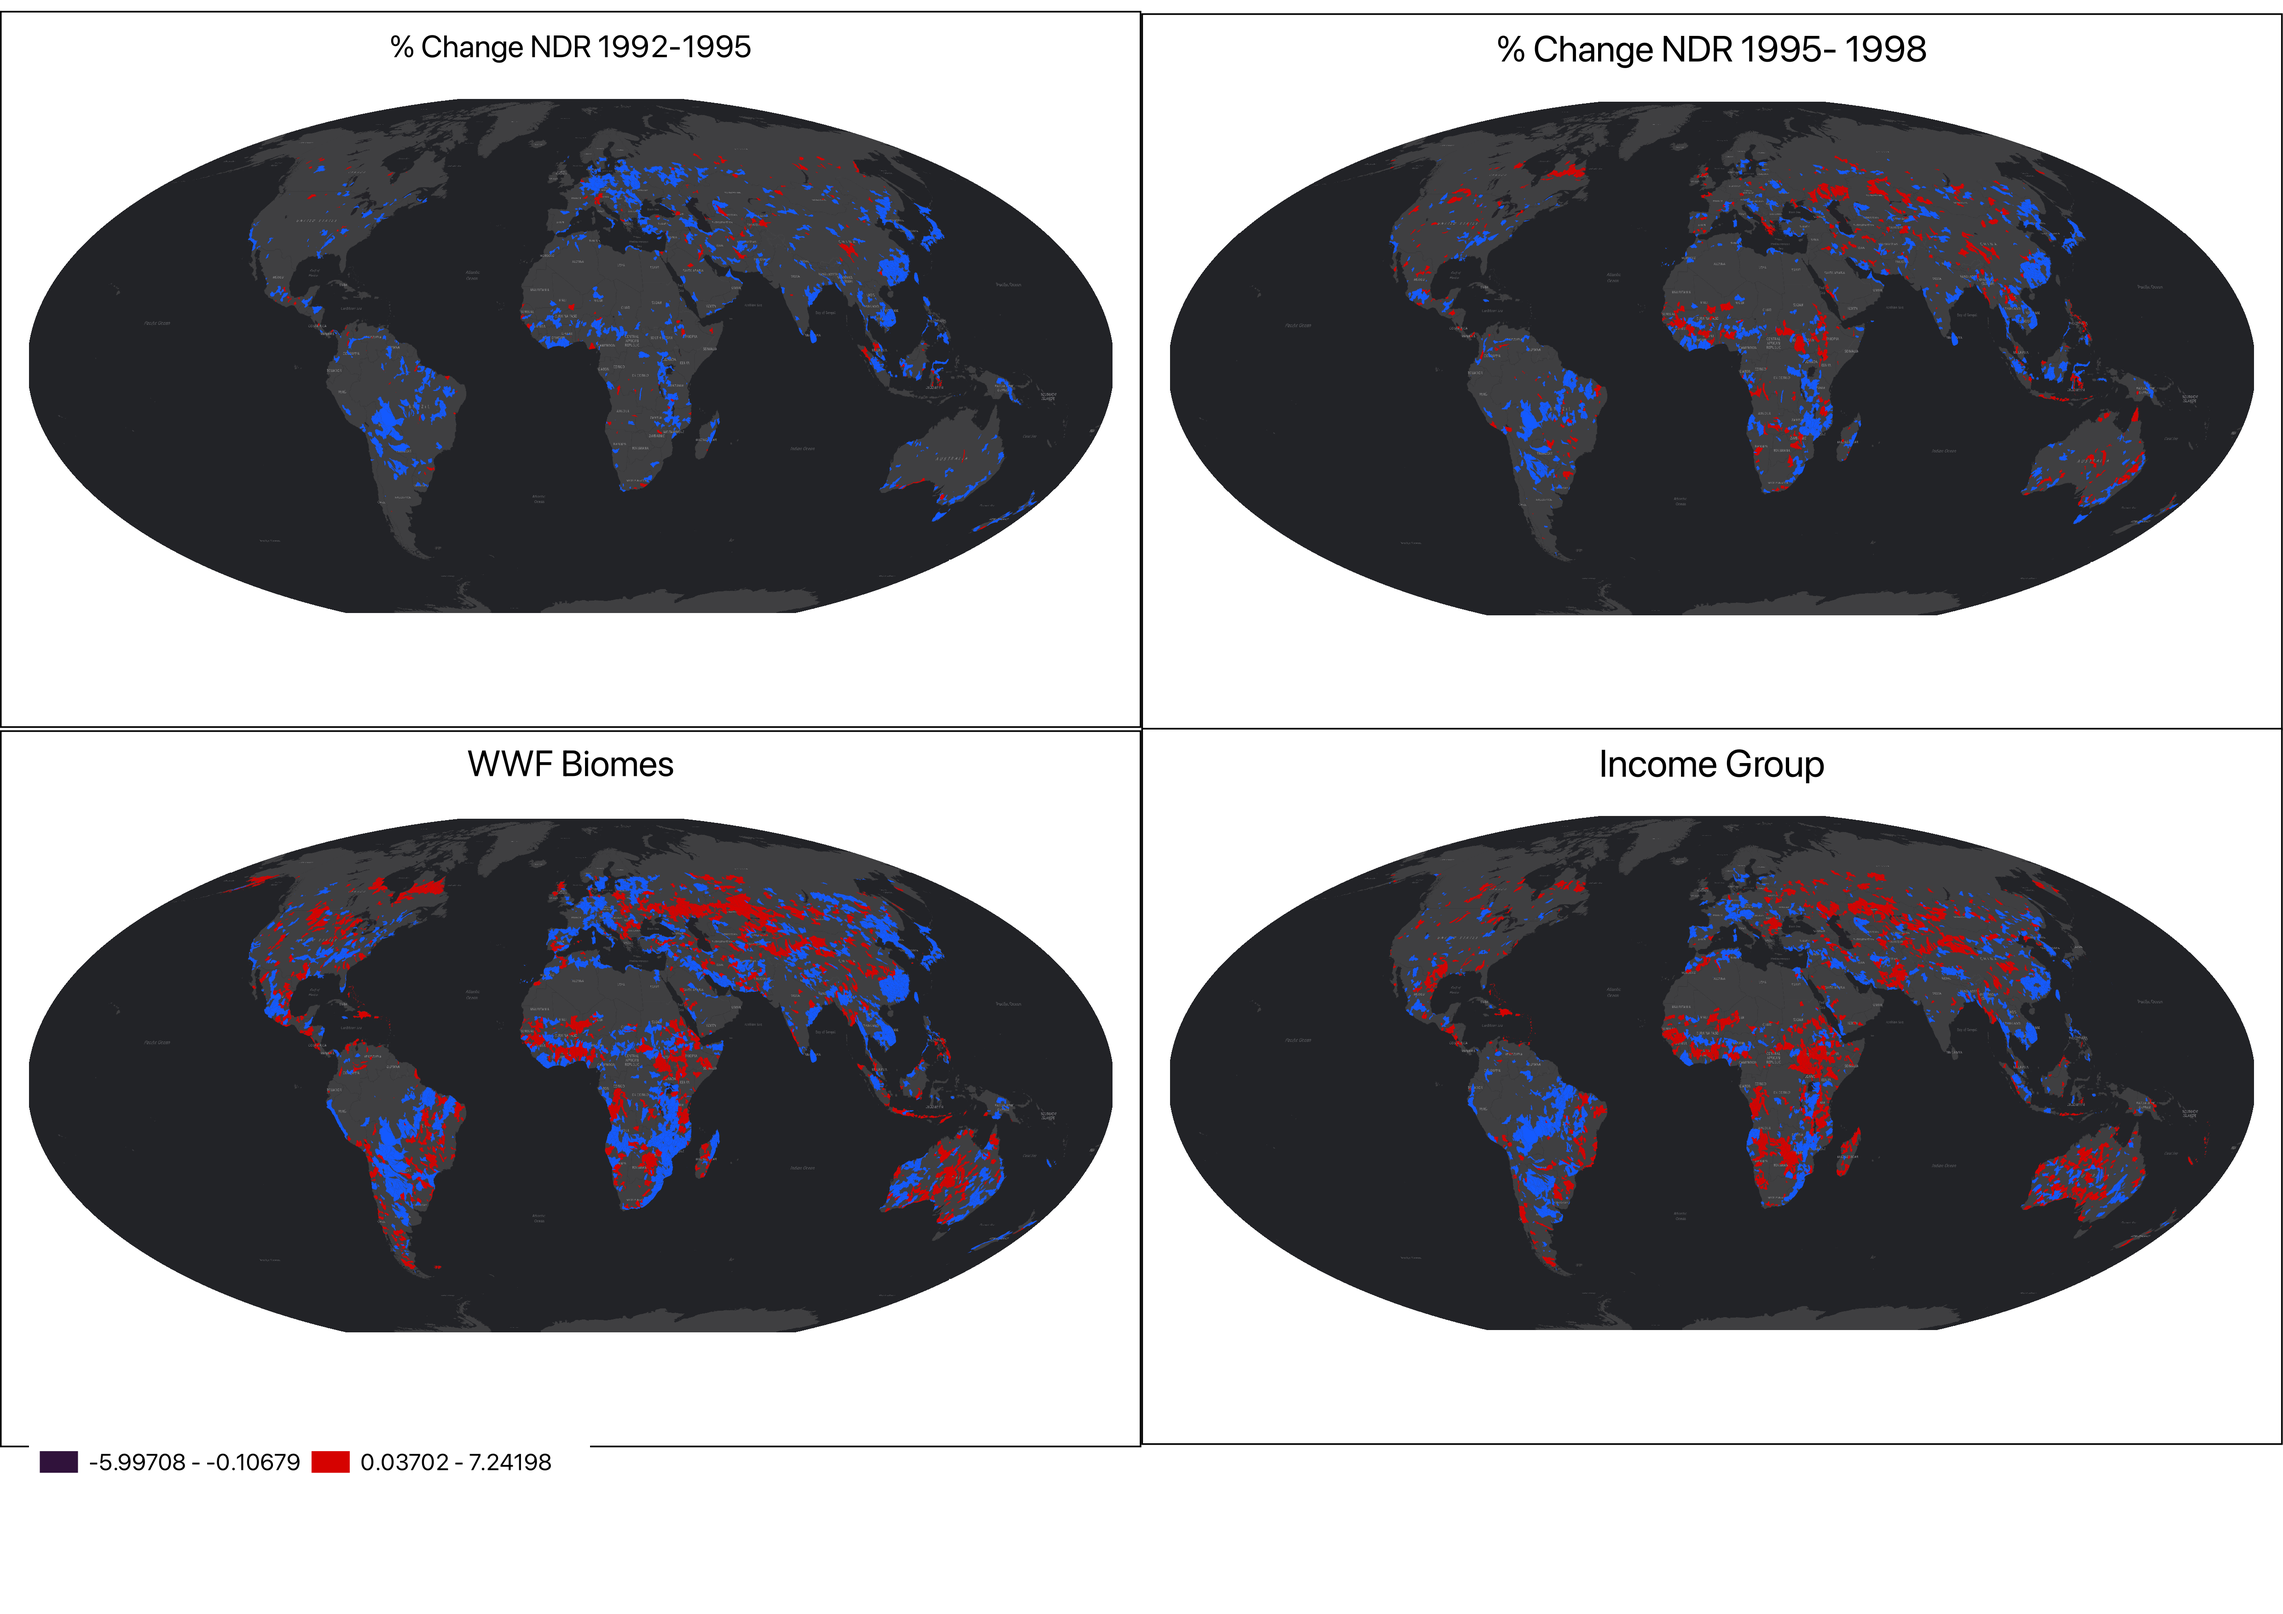
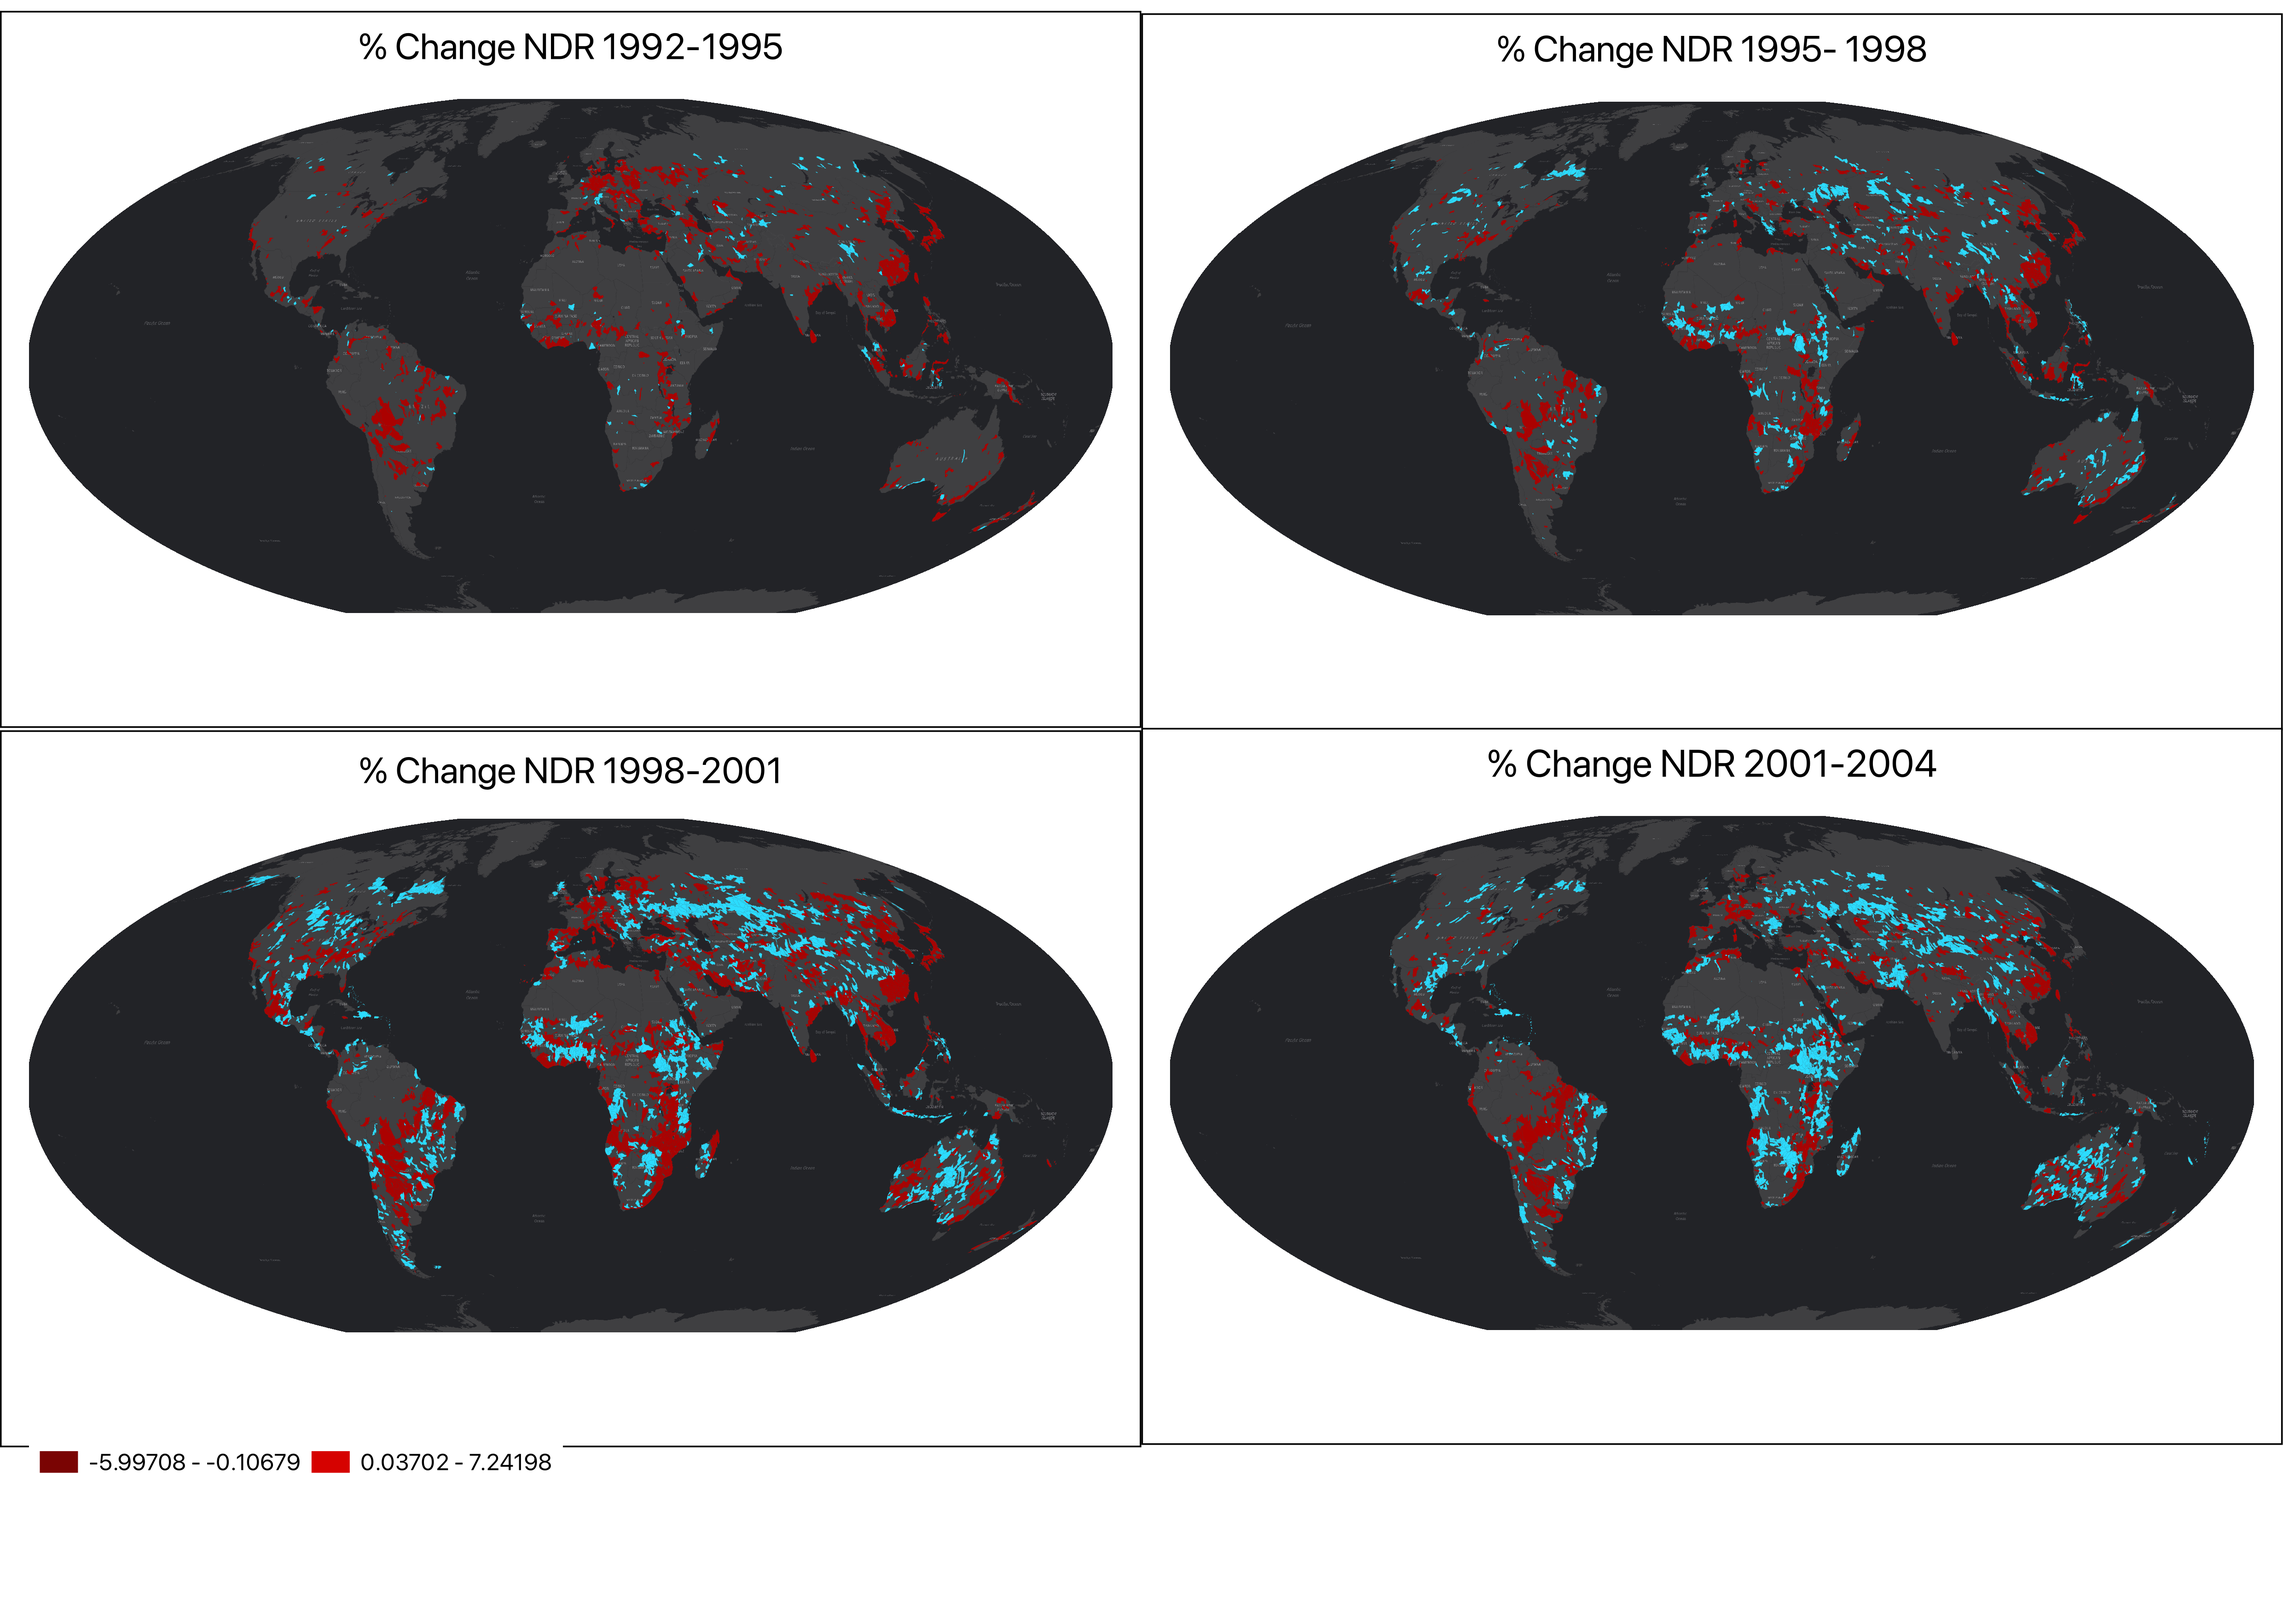
adjsuted RMD and documetnation. Should be ready to share

diff --git a/README.md b/README.md
@@ -9,8 +9,9 @@ zonal summary statistics from global ecosystem service (ES) raster
 datasets and track changes in ES provision over time while linking these
 changes to meaningful spatial units.
 
-The entire process is built around the `exactextractr` package in R,
-which offers efficient and precise zonal statistics for raster data
+The entire process is built around the
+[`exactextractr`](https://github.com/isciences/exactextractr) package in
+‘R’, which offers efficient and precise zonal statistics for raster data
 using polygon geometries. This workflow builds upon this functionality
 and introduces standardized methods to automate extraction, attach
 results as attributes, and visualize patterns across time and space.
@@ -34,14 +35,15 @@ considered: **continents, subregions, countries, biomes, watersheds**.
 Polygon files are stored in the vector/ directory in .gpkg format.
 Multiple levels of aggregation are supported: - Countries and
 territories - Continents - World Bank regions - Income groups - WWF
-Biomes - Hydrosheds Level 6 and 7 watersheds Dissolved polygon layers
-are generated externally (e.g., in QGIS or ArcGIS) to ensure topology
-and attribute consistency.
+Biomes - Hydrosheds Level 6 and 7 watersheds.
+
+Dissolved polygon layers are generated externally (e.g., in QGIS or
+ArcGIS) to ensure topology and attribute consistency.
 
 ## 2. Load Raster Data
 
-Raster inputs are located in input_ES/. They represent global ES values
-modeled with InVEST, covering two key years (1992 and 2020), plus
+Raster inputs are located in ‘input_ES/’. They represent global ES
+values modeled with InVEST, covering two key years (1992 and 2020), plus
 multi-year outputs (e.g., 1992–2004 for NDR). Each raster is labeled
 with: Ecosystem service name Year of modeling Units (e.g., kg/ha, people
 fed)
@@ -73,10 +75,12 @@ fed)
     lands**](https://github.com/springinnovate/distance-to-hab-with-friction)
     (Chaplin-Kramer et al, 2022).
 
-The script reads multiple global raster datasets (GeoTIFFs) representing
-different ecosystem services. Raster file paths are dynamically
-extracted and matched with corresponding **service names** and
-**years**.
+## Input Services
+
+<p div style="display: flex; gap: 10px;">
+<img src="output_maps/OriginalServices_92.png" width="45%" style="margin-right: 10px;"/>
+<img src="output_maps/OriginalServices_2020.png" width="48%" />
+</div>
 
 ## 3. Compute Raster Differences
 
@@ -84,35 +88,40 @@ Calculates **temporal changes** (e.g., **1992 vs. 2020**) for each
 ecosystem service by subtracting raster values. Outputs difference
 rasters are stored for later analysis.
 
+<p div style="display: flex; gap: 10px;">
+<img src="output_maps/OriginalServices_chg_1992_2020.png" style="margin-right: 10px;"/>
+</div>
+
 ## 4. Extract Zonal Statistics
 
-Uses `exactextractr` to compute **mean values** of each ecosystem
-service per polygon. Supports additional statistics such as **median,
-standard deviation, and quantiles**. Results are merged with the
-original polygon dataset and exported.
+Uses `exactextractr` to compute different summary statistics (mean,
+stdev, sum) of each ecosystem service per polygon for each year.
+Supports additional statistics such as **median, standard deviation, and
+quantiles**. Result values are joined to the original polygon dataset
+and exported.
 
-## 5. Analyze Differences
+We apply the same approach to Similar to step 4, but to the bi temporal
+**difference rasters**. Outputs summarized trends in ES changes over
+time.
 
-Similar to step 4, but applied to the **difference rasters**. Outputs
-summarized trends in ES changes over time.
-
-Zonal statistics can also be extracted directly from difference rasters
-(e.g., NDR_diff_1992_2020.tif), which sometimes gives more robust
-results. Two methods are supported: Compute difference after extracting
-zonal means in the correpsonding column. Extract statistics from
-difference rasters Both are documented and compared.
+Zonal statistics where extracted directly from difference rasters (e.g.,
+NDR_diff_1992_2020.tif), or the differneces can be calcualted from the
+extracted summary values for the individual years. The result is very
+similar but not identical, and i am still figuring out what this
+actually means. I suspect extracting the value direcly from the input
+rasters is a more robust method, but is more demanding computationally.
 
 ## 6. Normalize/Standardize Column Names
 
 Automates renaming of columns to maintain consistency across outputs.
-Ensures naming conventions are clear and aligned for visualization and
-GIS integration.
+Ensures naming conventions are clear and facilitates data visualization
+and map production.
 
 ## 7. Generate Visualizations
 
-The workflow supports automated charting of top/bottom 5 values per
-service, faceted plots over time, and basin-level change maps. Example
-plotting function:
+The workflow supports charting of top/bottom 5 values per service,
+faceted plots over time, and basin-level change maps. Example plotting
+function:
 
 ``` r
 library(ggplot2)
@@ -134,6 +143,18 @@ plot_ecosystem_services <- function(data, year, col) {
 }
 ```
 
+The % of change in NDR at the hydroshed level for 5 different time
+points (1992,1995,1998,2001 and 2004) are mapped here: *All values*:
+<p div style="display: flex; gap: 10px;">
+<img src="output_maps/Hydrosheds_2_1.png" style="margin-right: 10px;"/>
+</div>
+
+*Top/bottom values*
+
+<p div style="display: flex; gap: 10px;">
+<img src="output_maps/Hydrosheds_2.png" style="margin-right: 10px;"/>
+</div>
+
 # Usage
 
 ## Running the Workflow
@@ -141,10 +162,11 @@ plot_ecosystem_services <- function(data, year, col) {
 Clone the repository:
 
     git clone https://github.com/springinnovate/global_NCP.git
-    cd global_NCP
-    Open zonal_stats.Rmd and zonal_stats_hs.Rmd in RStudio and run each section interactively or knit to HTML.
+    cd notebooks
+    Open zonal_stats.Rmd and zonal_stats_hs.Rmd in RStudio and run each section interactively or knit to HTML. to recreate the extraction. Charting is done in visualizations.Rmd
 
-The Data to run the analyisis is stored in thie OnedRive.
+The raster and vector data required to run the analysis are stored in
+the shared OneDrive workspace.
 
 # Automating Future Runs
 
